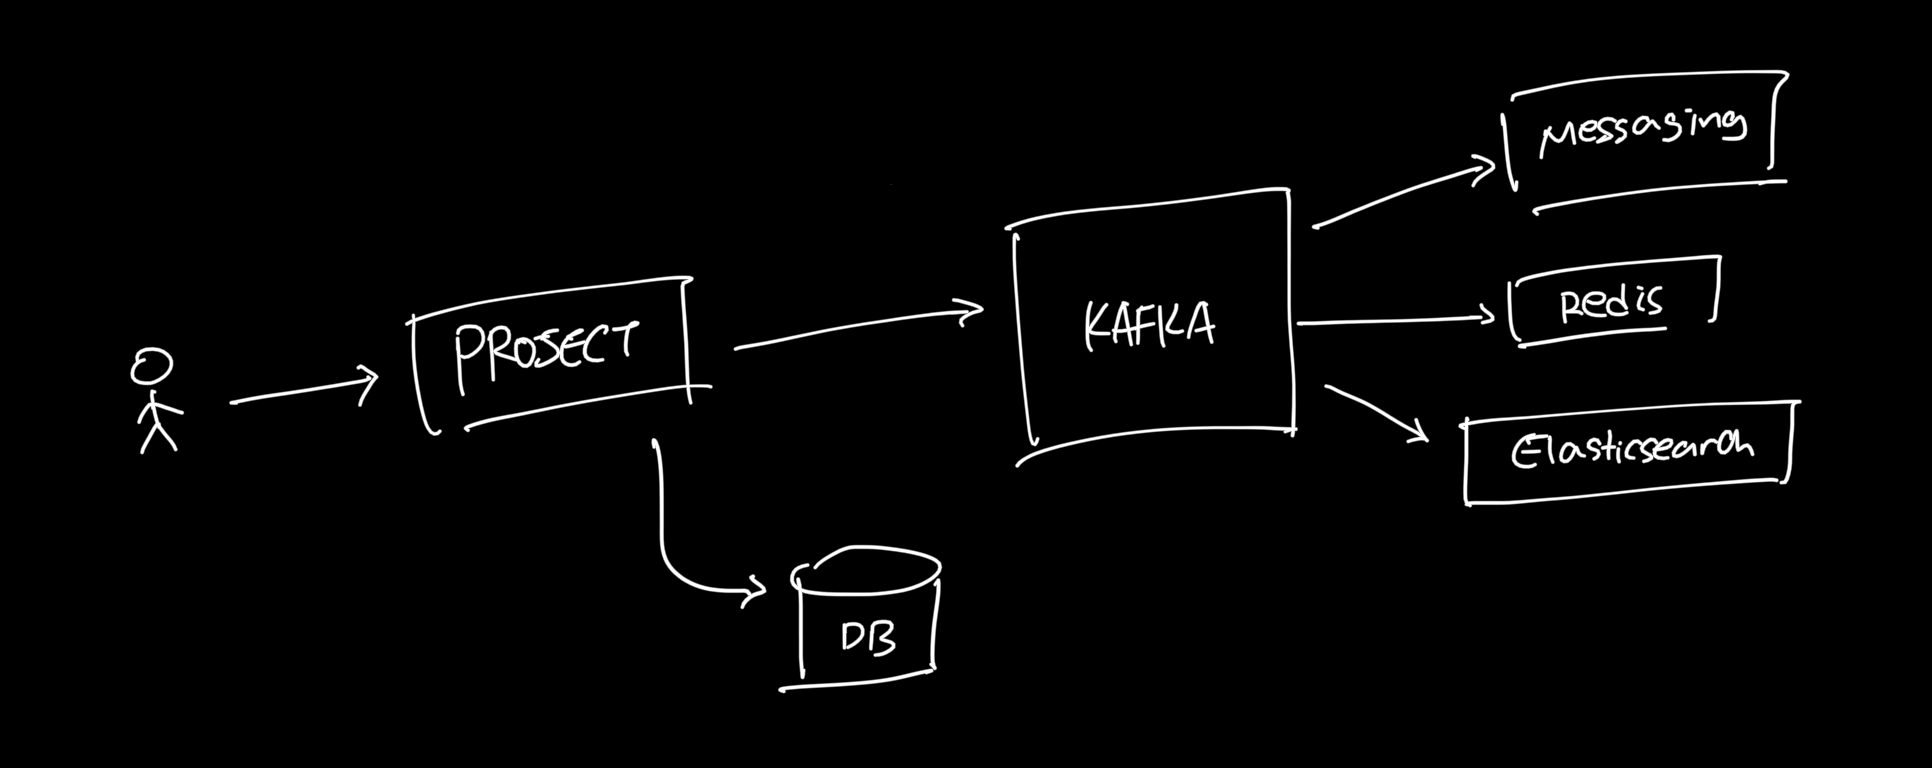
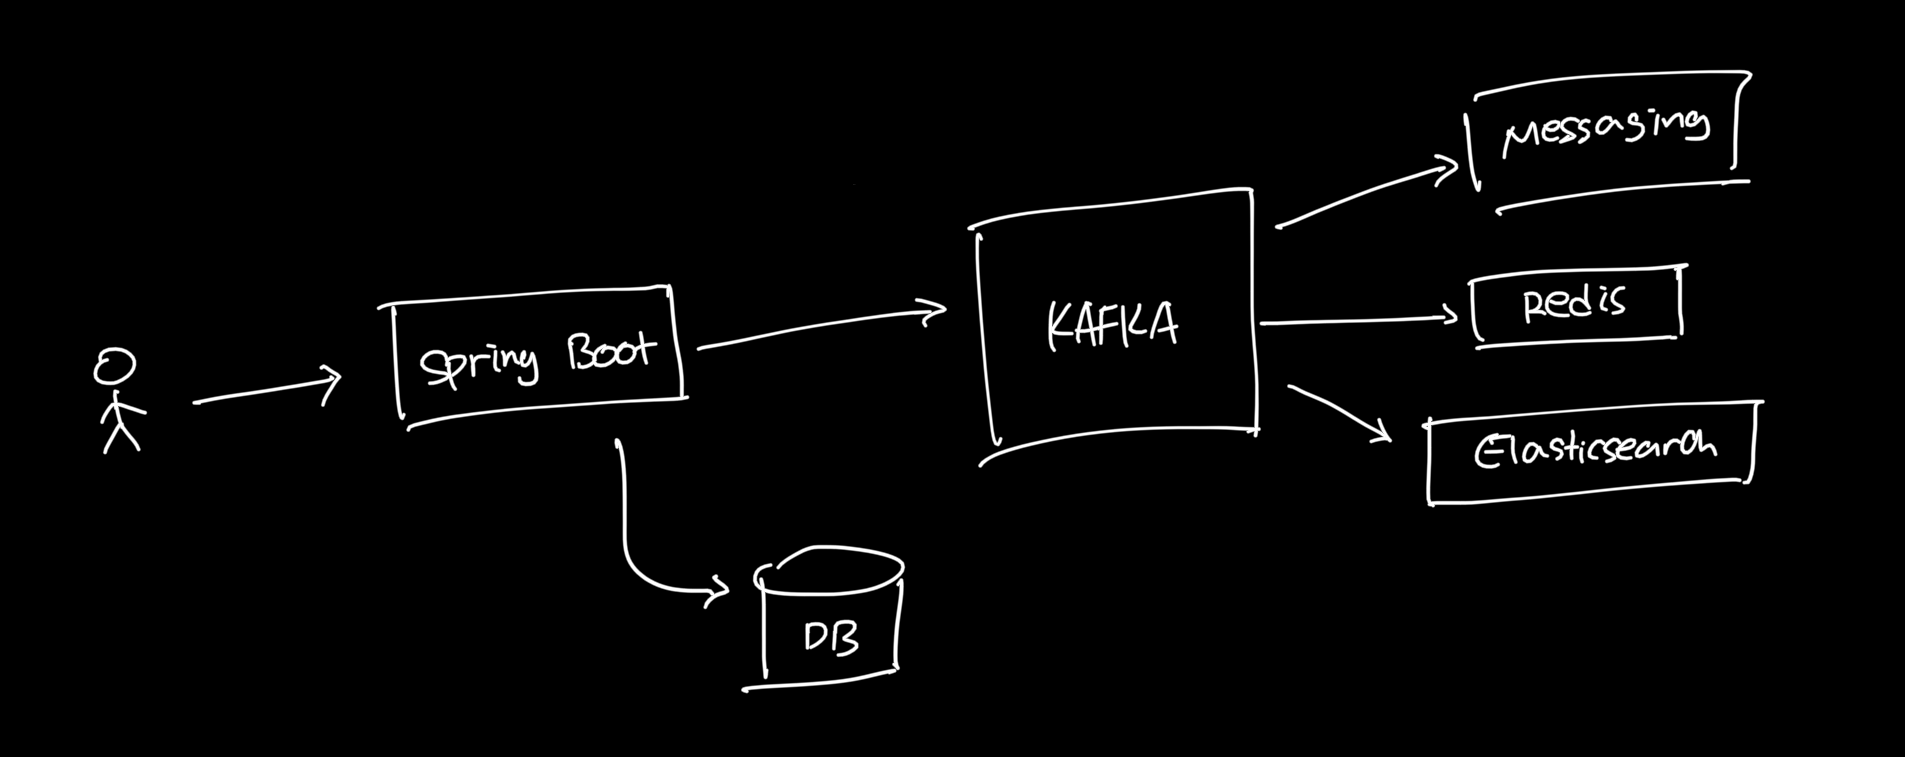
README updated

diff --git a/README.md b/README.md
@@ -7,17 +7,48 @@
 
 ![Scenario](docs/pics/scenario.png)
 
-1. 먼저 사용자는 어떤 프로젝트를 정보를 담아 올린다.
+1. 먼저 사용자는 프로젝트 정보를 담아 올린다.
     ```
     프로젝트 내용
     - 이름
     - 상세 내용
     - 진행 기간
     - 협업자 조건
-    - 협업자 인원 수
+    - 협업자 인원수
     - 관련 분야 (개발, 마케팅, ...)
     ```
 
-2. 업로드 된 프로젝트를 검색해 찾아 볼 수 있으며 프로젝트 취지와 조건이 맞으면 프로젝트 관리자에게 메시지를 보낼 수 있다.
+2. 업로드된 프로젝트를 검색해 찾아 볼 수 있으며 프로젝트 취지와 조건이 맞으면 프로젝트 관리자에게 메시지를 보낼 수 있다.
 
-3. 프로젝트 관리자가 수락을 하면 협업자와 대화를 나누며 프로젝트를 진행한다.
+3. 프로젝트 관리자가 수락하면 협업자와 대화를 나누며 프로젝트를 진행한다.
+
+
+## 아키텍쳐 
+
+![Main Flow](docs/pics/main_flow.png)
+
+프로젝트의 전반적인 흐름은 위 그림과 같다.
+
+```
+Spring Boot
+- 신속하게 개발하기 위해 Spring Boot를 사용함
+
+Kafka
+- 메세지 브로커 역할
+- 모든 내용은 Kafka를 통해 토픽에 저장되고 서비스에 활용되는 프로그램들은 정보를 받아와 처리하는 흐름으로 구성함
+
+MySQL
+- 메인 데이터베이스로 활용해 유저 정보와 프로젝트 정보를 담는 역할
+- Redis에 저장되는 메시지 내용을 백업하는 용도로 사용함
+
+Redis
+-  메시지 정보를 빠른 속도로 저장하고 읽기 위해 in-memory 데이터베이스로 사용
+
+Elasticsearch
+- 프로젝트를 찾는 용도로 사용함
+```
+
+
+### 카프카 아키텍쳐
+
+![Kafka Architecture](docs/pics/kafka_architecture.png)
